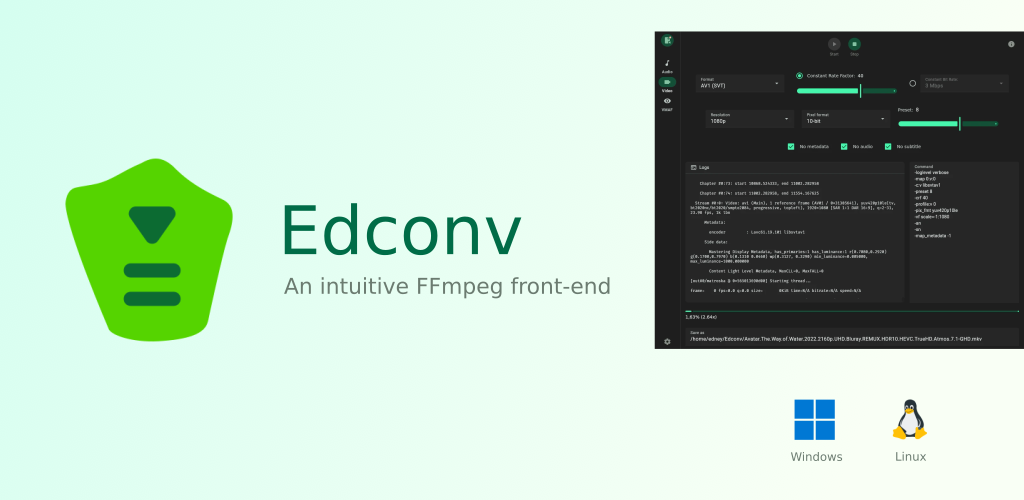
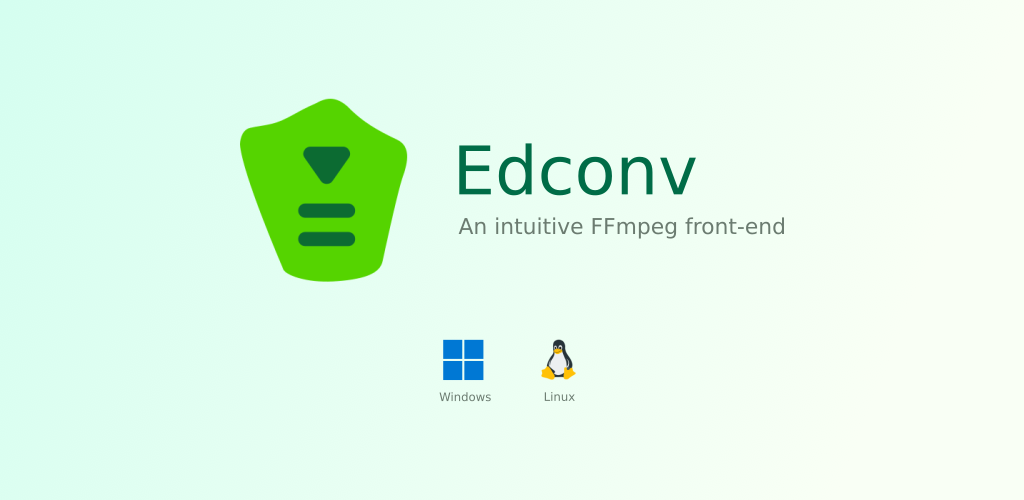
Updating readme

diff --git a/README.md b/README.md
@@ -24,11 +24,11 @@ A user-friendly interface that simplifies the power of **FFmpeg**. It's designed
 - Clean, intuitive interface
 - Media Information
 - VMAF perceptual video quality assessment algorithm
-- Conversion queue (soon)
+- Conversion queue
 
 ## Screenshots
 
-![Application Preview](assets/edconv.webp)
+![Application Preview](assets/edconv.png)
 
 ## Requirements
 
